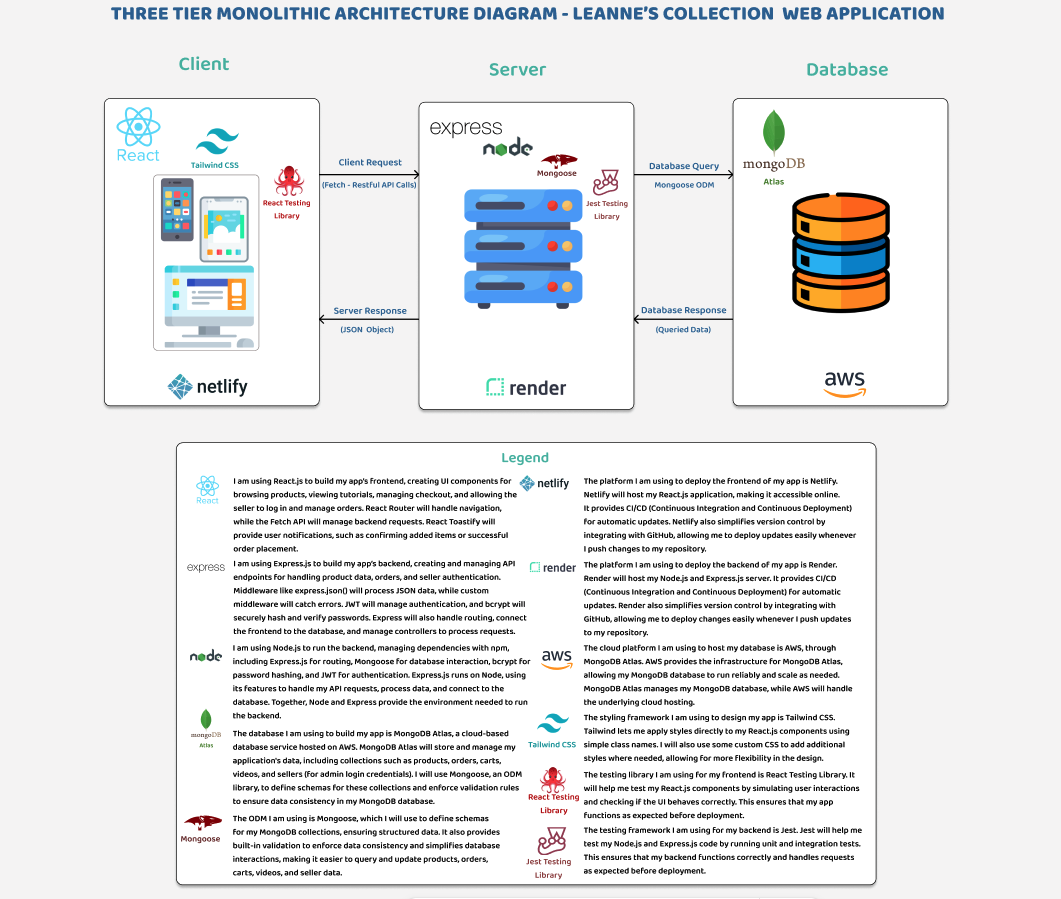
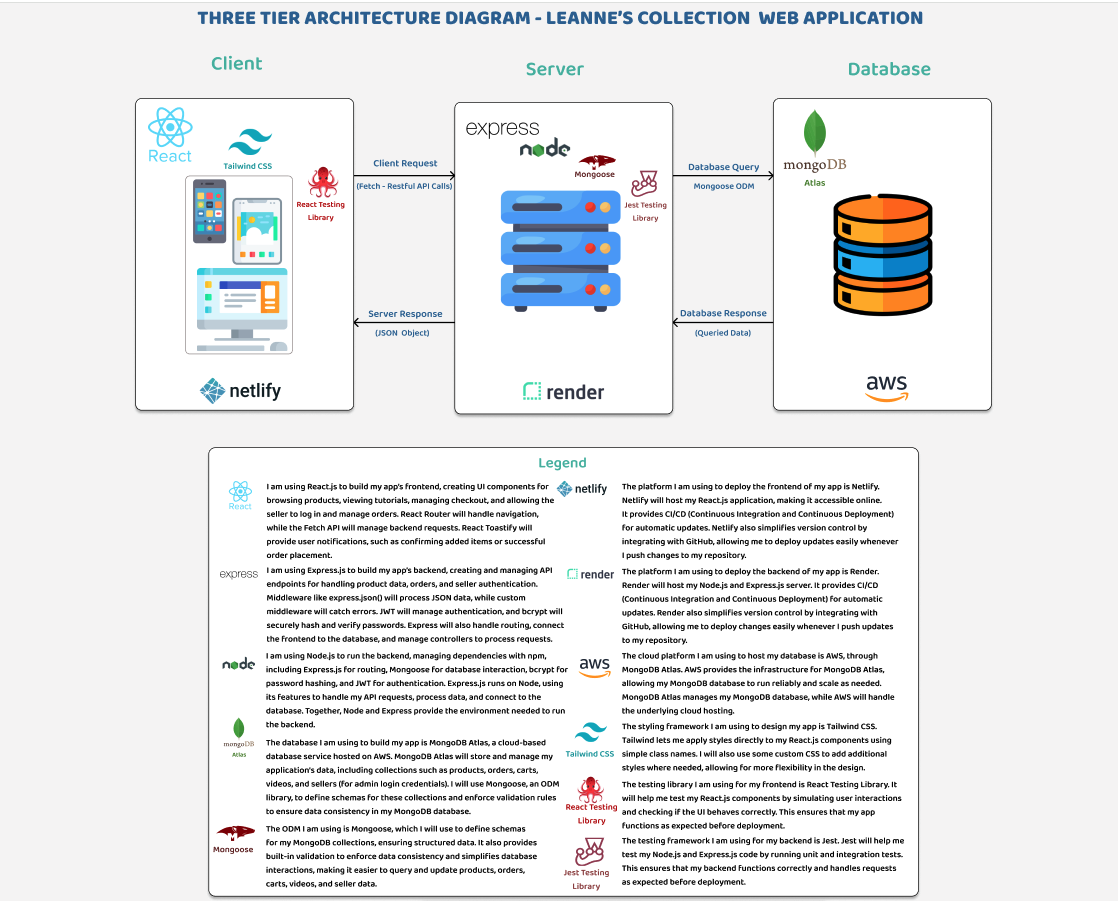
Added trello screenshots

diff --git a/README.md b/README.md
@@ -55,7 +55,7 @@
 
 - TECH STACK  
   1. Frontend: React.js  
-  The frontend will be built using React.js to provide a dynamic and responsive user interface. React Context API will manage global state, while Fetch API will handle API requests, with Axios as a potential alternative for improved request handling. React Toastify will be integrated to display notifications, while styling will be managed using Tailwind CSS, possibly Bootstrap, and CSS, to create a visually appealing and striking design.
+  The frontend will be built using React.js to provide a dynamic and responsive user interface. React Context API will manage global state, while Fetch API will handle API requests, with Axios as a potential alternative for improved request handling. React Toastify will be integrated to display notifications, while styling will be managed using Tailwind CSS, possibly Material Tailwind, and CSS, to create a visually appealing and striking design.
 
   1. Backend: Node.js & Express.js  
   The backend will be developed using Node.js and Express.js, with Node providing the runtime environment for executing backend logic and managing dependencies using npm. The Express.js framework will handle HTTP requests, define API routes, manage middleware, and interact with the database.
@@ -203,15 +203,13 @@ If the order is successfully created, the Order Controller sends a response with
 
 
 ## R3. Application Architecture Diagram
-For my application, Leanne's Collection, I plan to follow a 3-tier monolithic architecture, represented in the diagram below by the three distinct layers: frontend (client tier), backend (server tier), and database (data tier). Since this application is built using the MERN stack, the following technologies will be used:
+For my application, Leanne's Collection, I plan to follow a 3-tier architecture, represented in the diagram below by the three distinct layers: frontend (client tier), backend (server tier), and database (data tier). Since this application is built using the MERN stack, the following technologies will be used:
 
 The frontend (client tier) will be built with React.js and deployed on Netlify, providing a responsive and intuitive interface for customers to browse face paint kits, watch tutorials, and complete purchases as guests. The seller (admin) will have access to a separate admin portal, where they can log in to view all customer orders.  
 
 The backend (server tier) will be developed with Node.js and Express.js, hosted on Render. It will handle all API requests and business logic, which will be managed inside the application's controllers. These controllers will process incoming HTTP requests, validate data, interact with the database using Mongoose, enforce security using JWT authentication for the admin, and send structured JSON responses back to the frontend. This ensures the frontend can efficiently display product listings, order details, and video tutorials.
 
 The database (data tier) will be powered by MongoDB Atlas (hosted on AWS), storing all product (kit) details, customer orders, and video information. Data will be structured and managed using Mongoose models, ensuring consistency, validation, and efficient querying.
-
-While this monolithic setup is not as scalable as a microservices approach, it is the best choice for this project given the scope of this assignment and my current development skills.
 
 **Side note**: In the future, when I launch Leanne's Collection as a fully functional eCommerce website, I plan to integrate Shopify APIs (such as the Admin API) to handle cart creation, checkout, and payments. For this assignment, I will build proxies to simulate this functionality. Offloading payments and order management to Shopify will improve scalability by reducing backend processing. Therefore, the diagram below reflects the current architecture for this assignment and not the future version that will incorporate third-party Shopify APIs.
 
@@ -358,9 +356,34 @@ USER STORIES FOR BUSINESS OWNER
 ## R6. Screenshots of your Trello (or similar kanban system) board throughout the duration of the project
 
 ### Link to my Kanban style Trello board
-[Trello Board]([./docs/owner-persona.png](https://trello.com/b/4fwy8Nat/leannes-collection-web-app))
+[Trello Board](https://trello.com/b/4fwy8Nat/leannes-collection-web-app)
 
 ### Screenshots of my Kanban style Trello board
+
+1. MY TRELLO KANBAN BOARD SCREENSHOT  
+
+![My Trello Kanban Board](./docs/my-trello-board.png)
+
+2. DESIGN TRELLO CARDS SCREENSHOT  
+
+![Design Trello Cards](./docs/design-trello-cards.png)  
+
+3. BACKEND TRELLO CARDS SCREENSHOT  
+
+![Backend Trello Cards](./docs/backend-trello-cards.png)  
+
+4. FRONTEND TRELLO CARDS SCREENSHOTS  
+
+![Frontend Trello Cards](./docs/frontend-trello-cards.png)  
+![Frontend Continued Trello Cards](./docs/frontend-cont-trello-cards.png)
+
+5. TESTING & DEPLOYMENT TRELLO CARDS SCREENSHOT  
+
+![Testing & Deployment Trello Cards](./docs/testing-deploy-trello-cards.png)  
+
+6. BACKLOG TRELLO CARDS SCREENSHOT (Future features to be completed after assignment for real website launch) 
+
+![Backlog Trello Cards](./docs/backlog-trello-cards.png)
 
 
 
